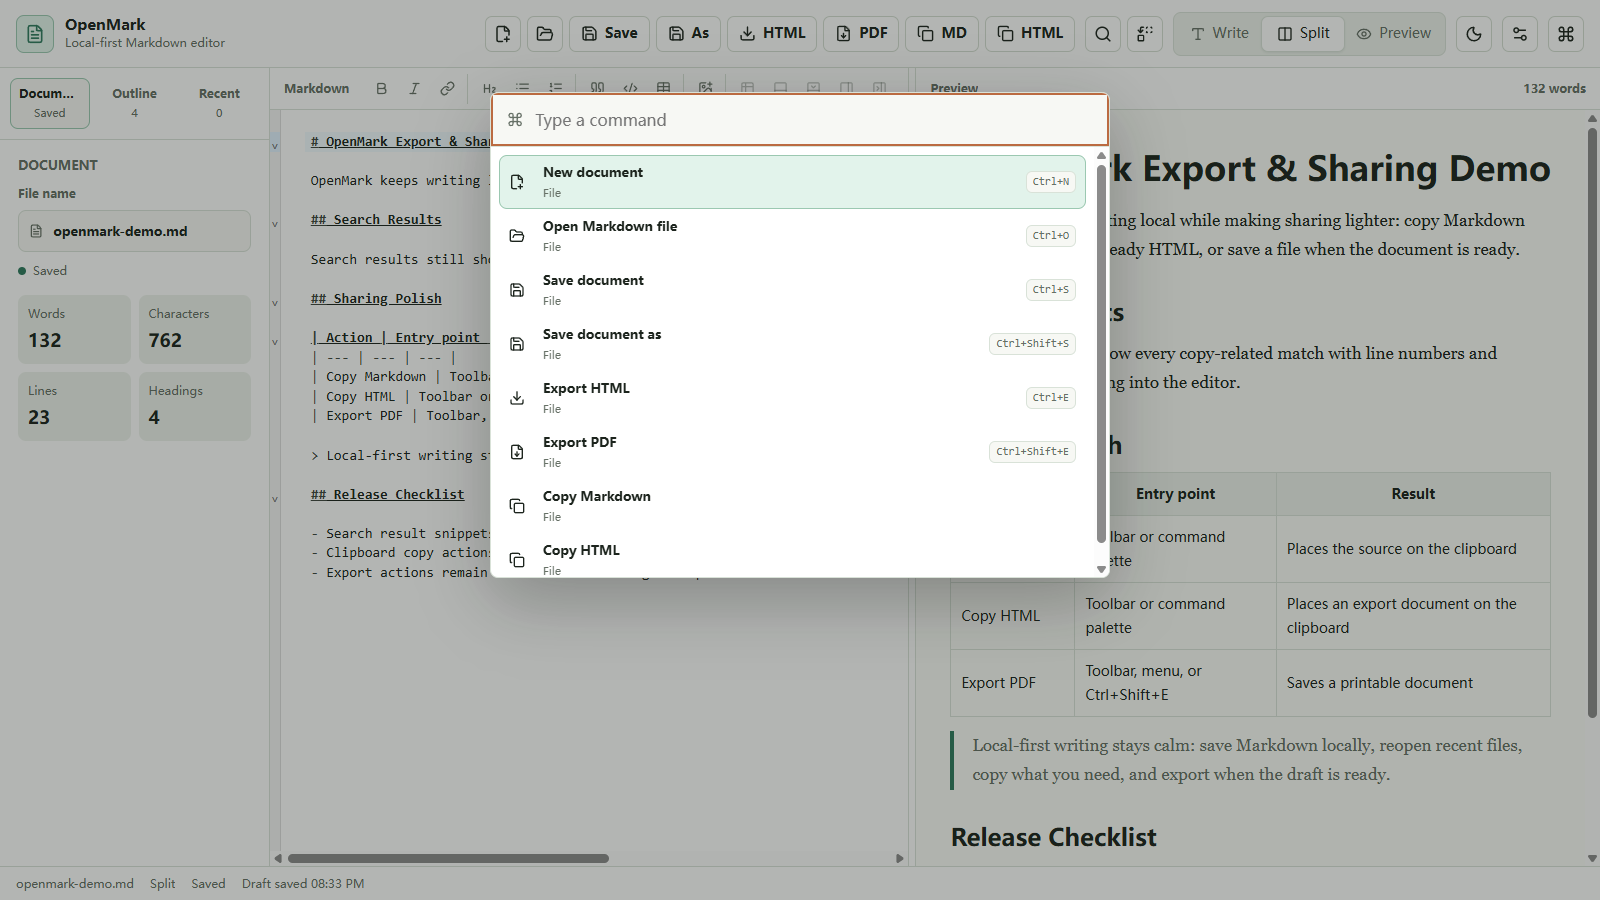
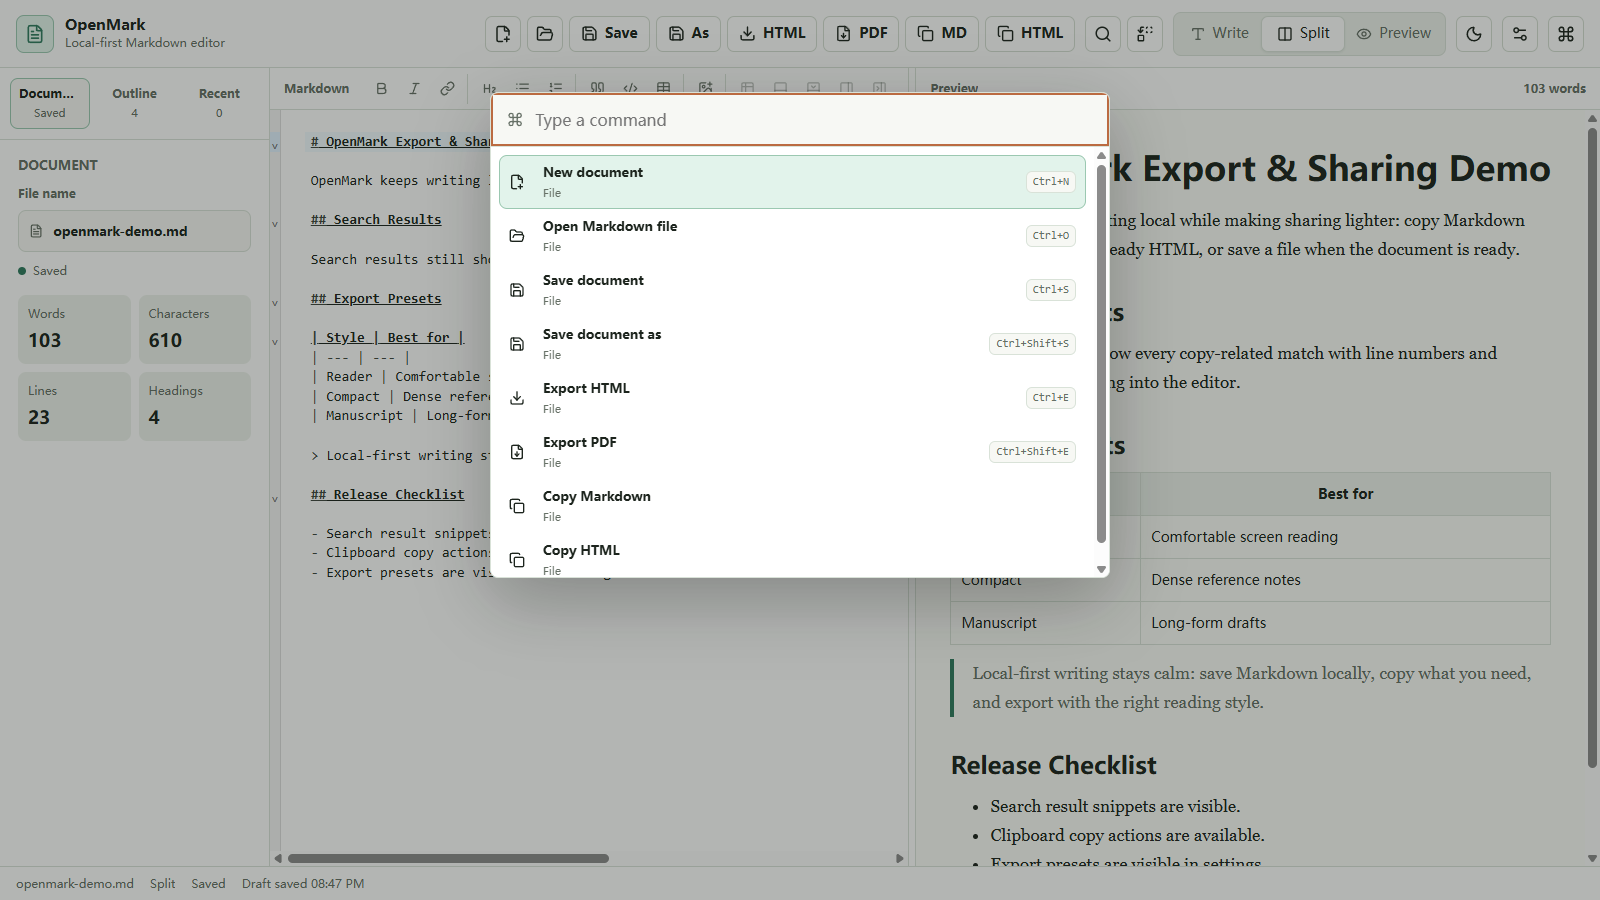
Add export style presets

diff --git a/src/App.tsx b/src/App.tsx
@@ -86,6 +86,7 @@ type MarkdownFormat = InlineFormat | BlockFormat
 type TableEditAction = 'format' | 'insert-row-below' | 'delete-row' | 'insert-column-right' | 'delete-column'
 type TableTranslationKey = 'formatTable' | 'addRowBelow' | 'deleteRow' | 'addColumnRight' | 'deleteColumn'
 type ClipboardCopyKind = 'markdown' | 'html'
+type ExportStyle = 'reader' | 'compact' | 'manuscript'
 
 const clipboardWriteTimeoutMs = 1200
 
@@ -159,6 +160,7 @@ const fileNameStorageKey = 'openmark:file-name'
 const themeStorageKey = 'openmark:theme'
 const localeStorageKey = 'openmark:locale'
 const editorFontSizeStorageKey = 'openmark:editor-font-size'
+const exportStyleStorageKey = 'openmark:export-style'
 const recentFilesStorageKey = 'openmark:recent-files'
 const splitPaneRatioStorageKey = 'openmark:split-pane-ratio'
 const viewModeStorageKey = 'openmark:view-mode'
@@ -191,6 +193,7 @@ const modeOptions: Array<{
 const validViewModes = new Set<ViewMode>(['write', 'split', 'preview'])
 const validSidebarTabs = new Set<SidebarTab>(['document', 'outline', 'recent'])
 const validThemePreferences = new Set<ThemePreference>(['light', 'dark', 'system'])
+const validExportStyles = new Set<ExportStyle>(['reader', 'compact', 'manuscript'])
 const defaultTableEditingState: TableEditingState = {
   isInTable: false,
   canDeleteRow: false,
@@ -219,6 +222,15 @@ const localeOptions: Array<{
   { value: 'system', Icon: Laptop },
   { value: 'en', Icon: Languages },
   { value: 'zh-CN', Icon: Languages },
+]
+
+const exportStyleOptions: Array<{
+  value: ExportStyle
+  Icon: LucideIcon
+}> = [
+  { value: 'reader', Icon: FileText },
+  { value: 'compact', Icon: Columns2 },
+  { value: 'manuscript', Icon: Type },
 ]
 
 const defaultUpdateStatus: OpenMarkUpdateStatus = {
@@ -345,6 +357,62 @@ function clampEditorFontSize(value: number) {
 function loadEditorFontSize() {
   const storedSize = Number(window.localStorage.getItem(editorFontSizeStorageKey))
   return Number.isFinite(storedSize) ? clampEditorFontSize(storedSize) : defaultEditorFontSize
+}
+
+function loadExportStyle() {
+  const storedStyle = window.localStorage.getItem(exportStyleStorageKey)
+  return validExportStyles.has(storedStyle as ExportStyle) ? storedStyle as ExportStyle : 'reader'
+}
+
+function getExportStyleCss(style: ExportStyle) {
+  const presetCss = {
+    reader: `
+    @page { margin: 22mm 18mm; }
+    body { background: #f7f8f4; color: #1c241d; font: 17px/1.7 ui-serif, Georgia, serif; }
+    main { max-width: 780px; padding: 56px 28px; }
+    p, ul, ol, blockquote, table, pre { margin-top: 0; margin-bottom: 1.1em; }
+    h1 { font-size: 2.2rem; }
+    h2 { font-size: 1.45rem; }
+`,
+    compact: `
+    @page { margin: 16mm 14mm; }
+    body { background: #ffffff; color: #20251f; font: 15px/1.55 ui-sans-serif, system-ui, sans-serif; }
+    main { max-width: 880px; padding: 36px 22px; }
+    p, ul, ol, blockquote, table, pre { margin-top: 0; margin-bottom: 0.8em; }
+    h1 { font-size: 1.85rem; }
+    h2 { font-size: 1.25rem; }
+`,
+    manuscript: `
+    @page { margin: 25mm 22mm; }
+    body { background: #ffffff; color: #151915; font: 18px/1.9 ui-serif, Georgia, serif; }
+    main { max-width: 720px; padding: 64px 30px; }
+    p, ul, ol, blockquote, table, pre { margin-top: 0; margin-bottom: 1.35em; }
+    h1 { font-size: 2rem; }
+    h2 { font-size: 1.35rem; }
+`,
+  } satisfies Record<ExportStyle, string>
+
+  return `${presetCss[style]}
+    body { margin: 0; }
+    main { margin: 0 auto; }
+    h1, h2, h3 { margin: 1.4em 0 0.55em; line-height: 1.2; font-family: ui-sans-serif, system-ui, sans-serif; }
+    h1:first-child, h2:first-child, h3:first-child { margin-top: 0; }
+    a { color: #2f7a5f; }
+    pre { overflow: auto; padding: 16px; background: #20251f; color: #f4f7ef; border-radius: 8px; }
+    code { font-family: ui-monospace, SFMono-Regular, Consolas, monospace; }
+    blockquote { margin-left: 0; padding-left: 18px; border-left: 4px solid #75a88f; color: #59675d; }
+    table { border-collapse: collapse; width: 100%; }
+    th, td { border: 1px solid #d9e2d8; padding: 8px 10px; text-align: left; vertical-align: top; }
+    th { background: rgba(117, 168, 143, 0.12); }
+    img { max-width: 100%; height: auto; }
+    hr { border: 0; border-top: 1px solid #d9e2d8; margin: 2em 0; }
+    @media print {
+      body { background: #ffffff; }
+      main { max-width: none; padding: 0; }
+      pre, blockquote, table, img { break-inside: avoid; }
+      a { color: inherit; }
+    }
+`
 }
 
 function getOutline(markdownValue: string): OutlineItem[] {
@@ -1200,6 +1268,7 @@ function App() {
   const [localePreference, setLocalePreference] = useState<LocalePreference>(loadLocalePreference)
   const [systemLocale, setSystemLocale] = useState<AppLocale>(getSystemLocale)
   const [editorFontSize, setEditorFontSize] = useState(loadEditorFontSize)
+  const [exportStyle, setExportStyle] = useState<ExportStyle>(loadExportStyle)
   const [lastSavedAt, setLastSavedAt] = useState<Date | null>(null)
   const [activeOutlineLine, setActiveOutlineLine] = useState<number | null>(null)
   const [isSearchVisible, setIsSearchVisible] = useState(false)
@@ -1569,6 +1638,10 @@ function App() {
   useEffect(() => {
     window.localStorage.setItem(editorFontSizeStorageKey, editorFontSize.toFixed(0))
   }, [editorFontSize])
+
+  useEffect(() => {
+    window.localStorage.setItem(exportStyleStorageKey, exportStyle)
+  }, [exportStyle])
 
   useEffect(() => {
     document.documentElement.dataset.theme = theme
@@ -2099,31 +2172,17 @@ function App() {
     const title = escapeHtml(getBaseName(fileName))
 
     return `<!doctype html>
-  <html lang="${locale}">
+<html lang="${locale}">
 <head>
   <meta charset="utf-8">
   <meta name="viewport" content="width=device-width, initial-scale=1">
+  <meta name="generator" content="OpenMark">
   <title>${title}</title>
   <style>
-    @page { margin: 22mm 18mm; }
-    body { margin: 0; background: #f7f8f4; color: #1c241d; font: 17px/1.7 ui-serif, Georgia, serif; }
-    main { max-width: 780px; margin: 0 auto; padding: 56px 28px; }
-    h1, h2, h3 { line-height: 1.2; font-family: ui-sans-serif, system-ui, sans-serif; }
-    pre { overflow: auto; padding: 16px; background: #20251f; color: #f4f7ef; border-radius: 8px; }
-    code { font-family: ui-monospace, SFMono-Regular, Consolas, monospace; }
-    blockquote { margin-left: 0; padding-left: 18px; border-left: 4px solid #75a88f; color: #59675d; }
-    table { border-collapse: collapse; width: 100%; }
-    th, td { border: 1px solid #d9e2d8; padding: 8px 10px; }
-    img { max-width: 100%; }
-    @media print {
-      body { background: #ffffff; }
-      main { max-width: none; padding: 0; }
-      pre, blockquote, table, img { break-inside: avoid; }
-      a { color: inherit; }
-    }
+${getExportStyleCss(exportStyle)}
   </style>
 </head>
-<body>
+<body data-export-style="${exportStyle}">
   <main>${contentHtml}</main>
 </body>
 </html>`
@@ -3505,6 +3564,28 @@ function App() {
                 <strong>{editorFontSize}px</strong>
               </div>
             </label>
+
+            <div className="settings-section">
+              <span className="settings-label">{t.settings.exportStyle}</span>
+              <div className="theme-choice-group export-style-group" aria-label={t.settings.exportStylePreference}>
+                {exportStyleOptions.map(({ value, Icon }) => {
+                  const label = t.exportStyles[value]
+
+                  return (
+                    <button
+                      type="button"
+                      key={value}
+                      className={exportStyle === value ? 'theme-choice active' : 'theme-choice'}
+                      onClick={() => setExportStyle(value)}
+                      aria-label={`${label} ${t.settings.exportStyleSuffix}`}
+                    >
+                      <Icon size={16} />
+                      <span>{label}</span>
+                    </button>
+                  )
+                })}
+              </div>
+            </div>
 
             <div className="settings-section update-setting">
               <span className="settings-label">{t.settings.updates}</span>

diff --git a/src/i18n.ts b/src/i18n.ts
@@ -44,6 +44,11 @@ const en = {
     en: 'English',
     'zh-CN': 'Simplified Chinese',
   },
+  exportStyles: {
+    reader: 'Reader',
+    compact: 'Compact',
+    manuscript: 'Manuscript',
+  },
   groups: {
     file: 'File',
     edit: 'Edit',
@@ -158,6 +163,9 @@ const en = {
     language: 'Language',
     languagePreference: 'Language preference',
     editorFontSize: 'Editor font size',
+    exportStyle: 'Export style',
+    exportStylePreference: 'Export style preference',
+    exportStyleSuffix: 'export style',
     updates: 'Updates',
     currentVersion: 'Current version',
     latestVersion: 'Latest version',
@@ -235,6 +243,11 @@ const zhCN: TranslationCatalog = {
     system: '跟随系统',
     en: 'English',
     'zh-CN': '简体中文',
+  },
+  exportStyles: {
+    reader: '阅读',
+    compact: '紧凑',
+    manuscript: '文稿',
   },
   groups: {
     file: '文件',
@@ -350,6 +363,9 @@ const zhCN: TranslationCatalog = {
     language: '语言',
     languagePreference: '语言偏好',
     editorFontSize: '编辑器字号',
+    exportStyle: '导出样式',
+    exportStylePreference: '导出样式偏好',
+    exportStyleSuffix: '导出样式',
     updates: '更新',
     currentVersion: '当前版本',
     latestVersion: '最新版本',

diff --git a/src/App.css b/src/App.css
@@ -1334,6 +1334,10 @@ body.is-resizing-split * {
   gap: 8px;
 }
 
+.export-style-group {
+  grid-template-columns: repeat(3, minmax(0, 1fr));
+}
+
 .theme-choice {
   min-width: 0;
   min-height: 40px;

diff --git a/docs/roadmap.md b/docs/roadmap.md
@@ -53,6 +53,6 @@
 ## Milestone 7: Export & Sharing Polish
 
 - Copy Markdown and export-ready HTML to the clipboard ✅
-- Export preset polish
+- Export preset polish ✅
 - Printable preview improvements
 - Share-friendly document metadata

diff --git a/CHANGELOG.md b/CHANGELOG.md
@@ -7,6 +7,7 @@ All notable changes to OpenMark will be documented in this file.
 ### Export & Sharing
 
 - Added toolbar, command palette, and desktop menu actions for copying Markdown or export-ready HTML to the clipboard.
+- Added Reader, Compact, and Manuscript export style presets for HTML export, PDF export, and Copy HTML output.
 
 ## 0.5.0 - 2026-06-08
 